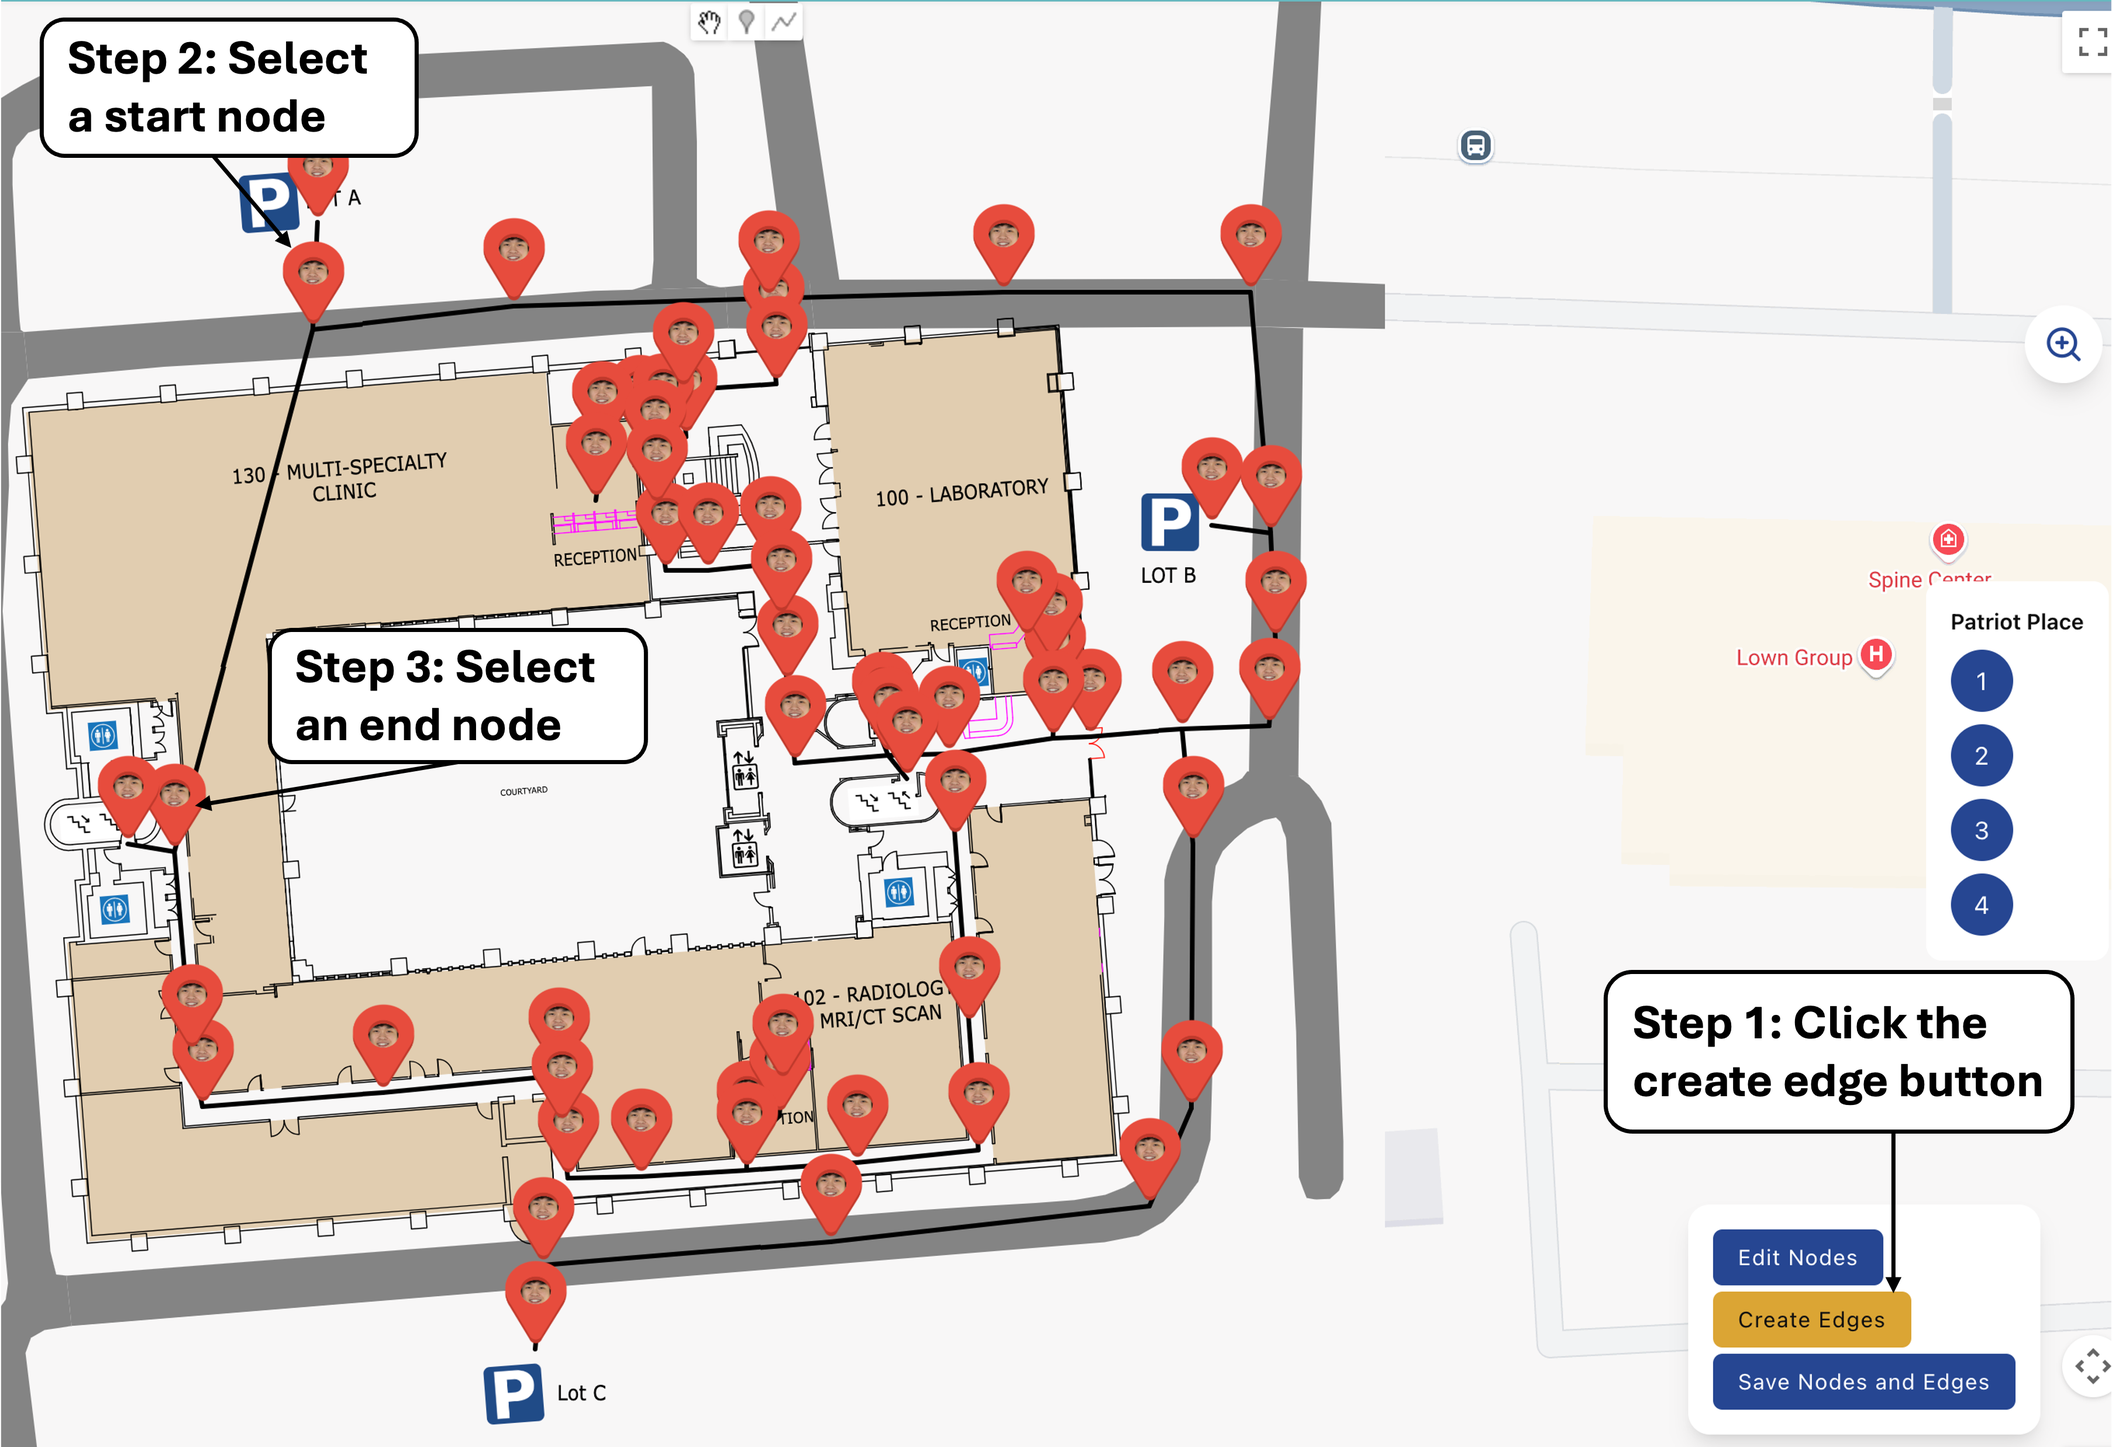
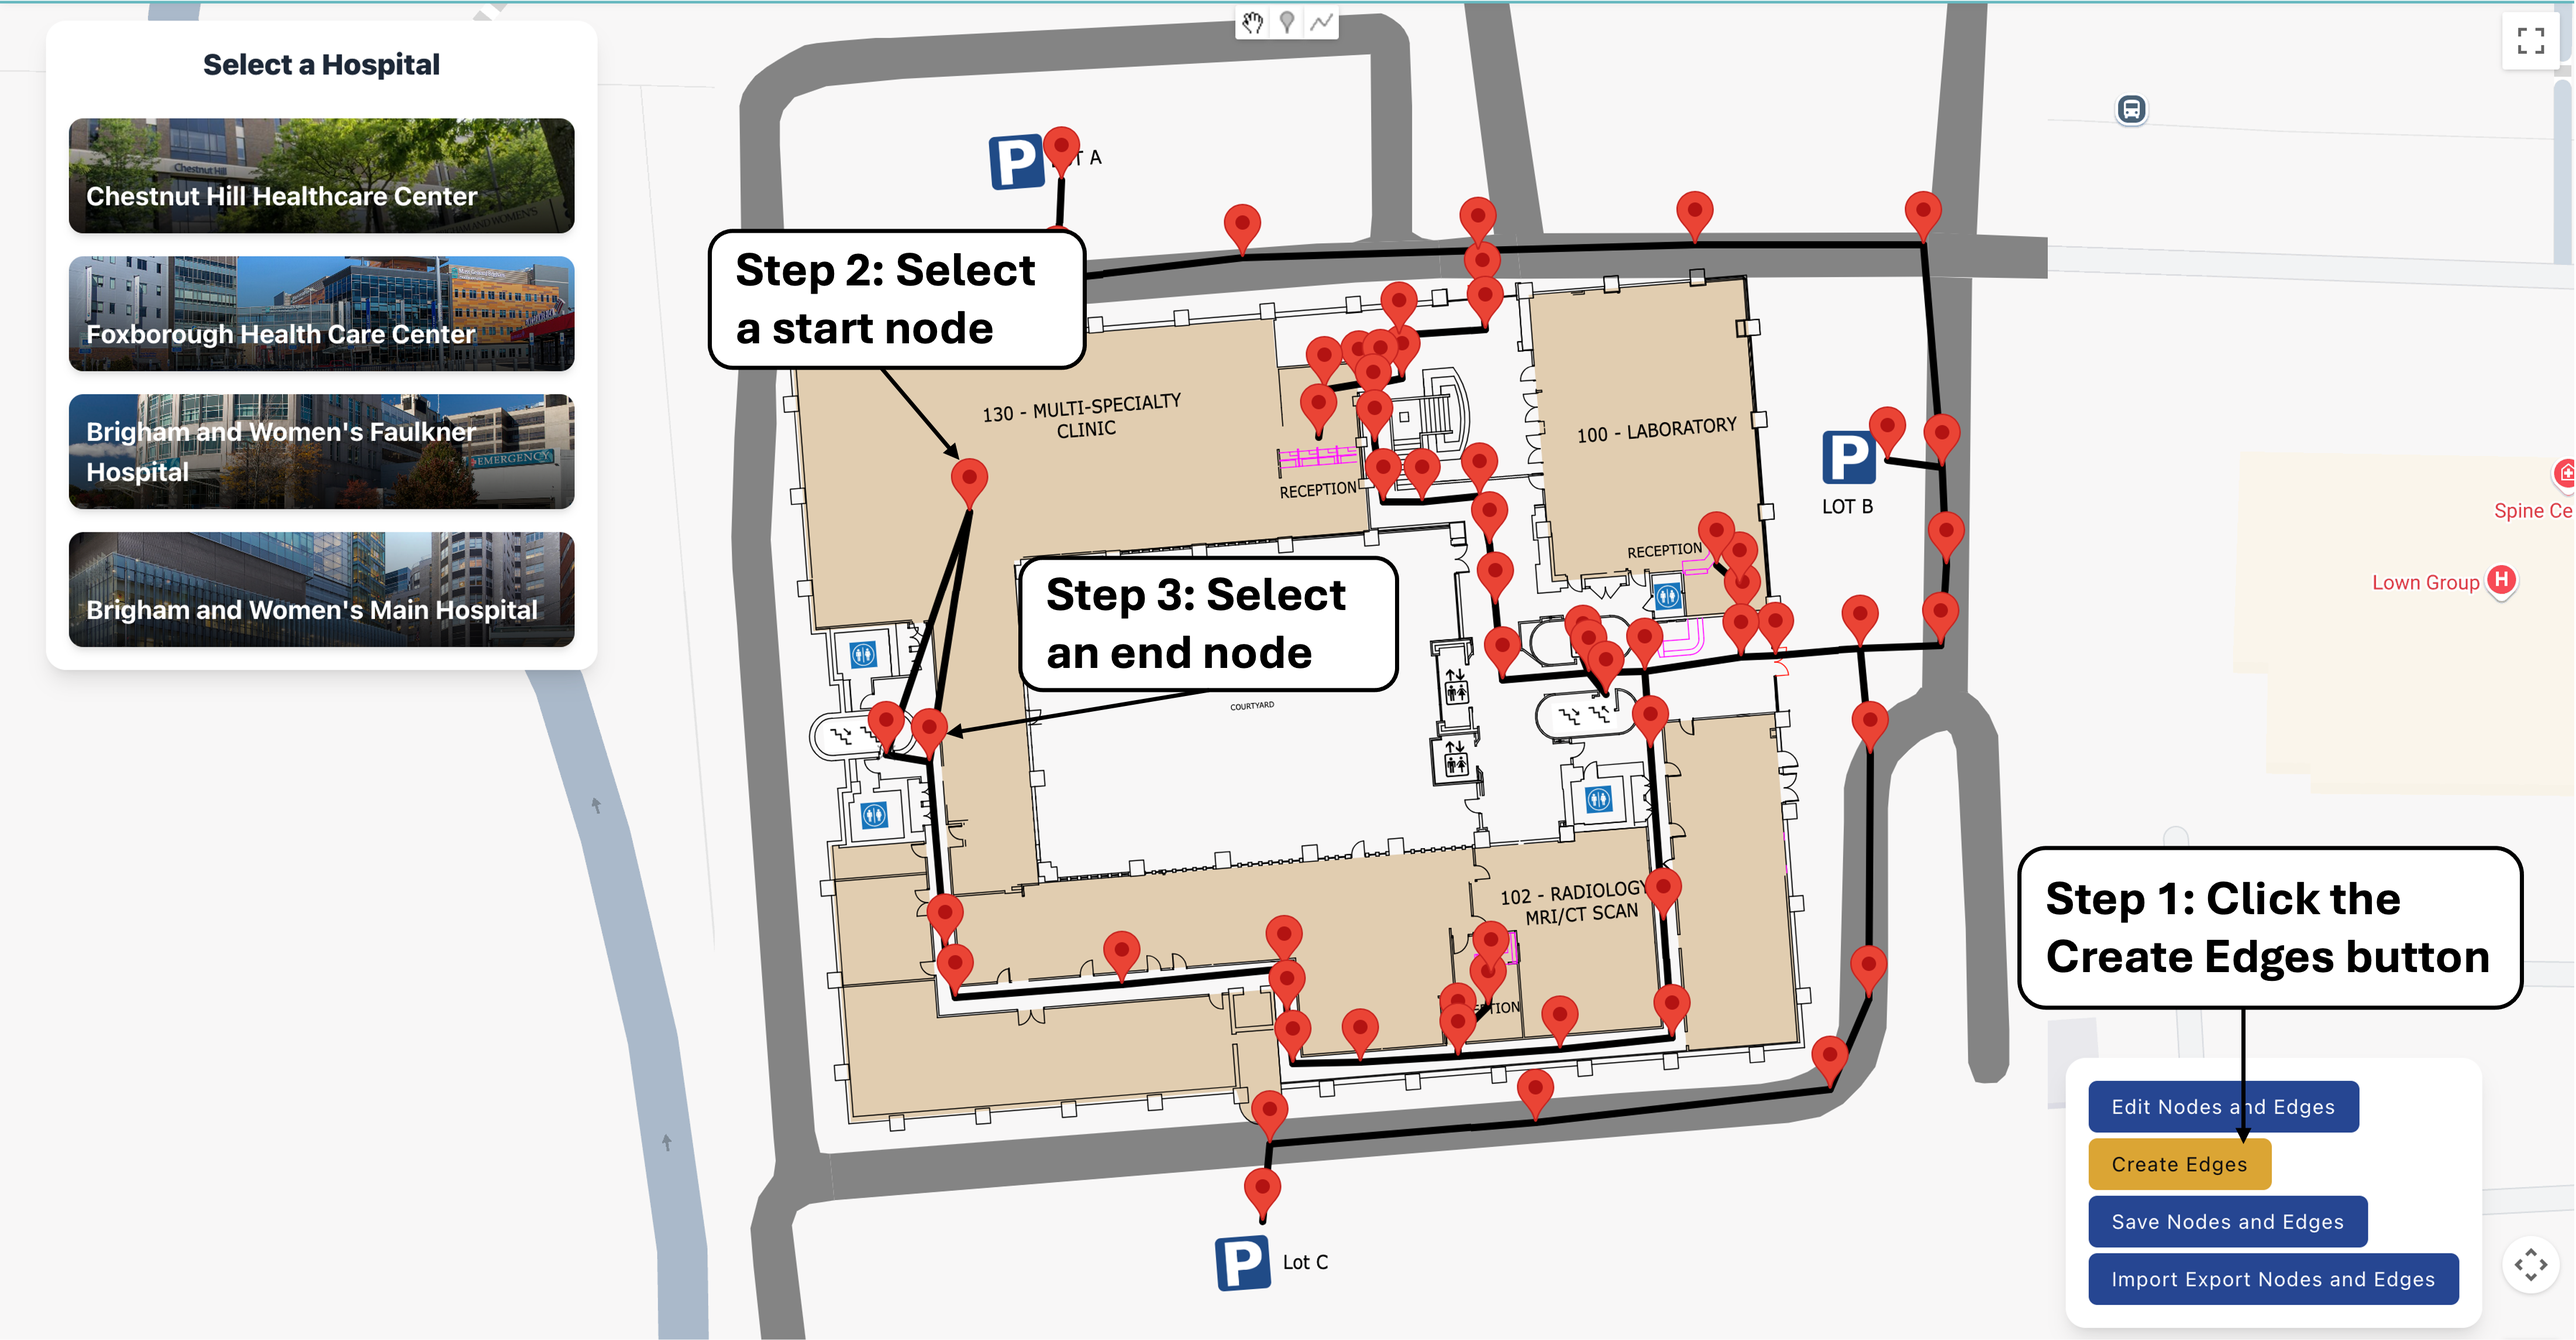
map instruction images

diff --git a/apps/frontend/src/components/MapInstructions.tsx b/apps/frontend/src/components/MapInstructions.tsx
@@ -1,9 +1,11 @@
 import React, { useState } from "react";
 import MGBButton from "@/elements/MGBButton.tsx";
-import add_node from '../assets/instructions/add_node.png';
 import create_edges from '../assets/instructions/create_edges.png';
 import edit_node from '../assets/instructions/edit_node.png';
 import save_changes from '../assets/instructions/save.png';
+import select from '../assets/instructions/select_hospital.png'
+import delete_edges from '../assets/instructions/delete_edge.png'
+import import_export_nodes from '../assets/instructions/import_export_nodes.png'
 
 interface MapInstructionsProps {
     onClose?: () => void;
@@ -12,13 +14,18 @@ interface MapInstructionsProps {
 
 const instructionPages = [
     {
-        title: "Add Node",
-        imagePath: add_node,
-        description: "Click \"Add Node\" button and then click on the map to place nodes."
+        title: "Select Hospital",
+        imagePath: select,
+        description: "Select the hospital you want to edit."
     },
     {
         title: "Edit Node",
         imagePath: edit_node,
+        description: "Click \"Add Node\" button and then click on the map to place nodes."
+    },
+    {
+        title: "Delete Edges",
+        imagePath: delete_edges,
         description: "Click on the node to edit its name, room number, or remove node."
     },
     {
@@ -30,6 +37,11 @@ const instructionPages = [
         title: "Save Nodes and Edges",
         imagePath: save_changes,
         description: "Click the \"Save Nodes and Edges\" button to store your configuration."
+    },
+    {
+        title: "Import/Export Nodes",
+        imagePath: import_export_nodes,
+        description: "Click the \"Import/Export Nodes\" button to import or export nodes."
     }
 ];
 
